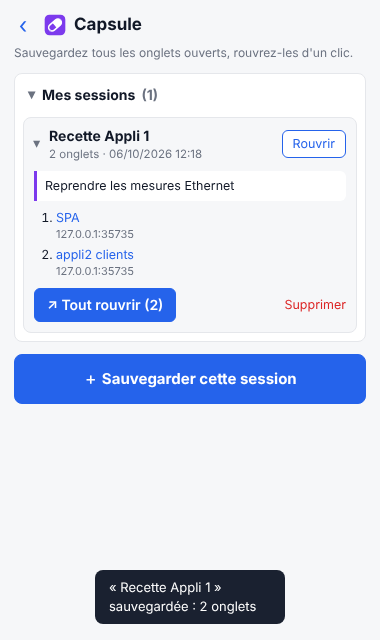
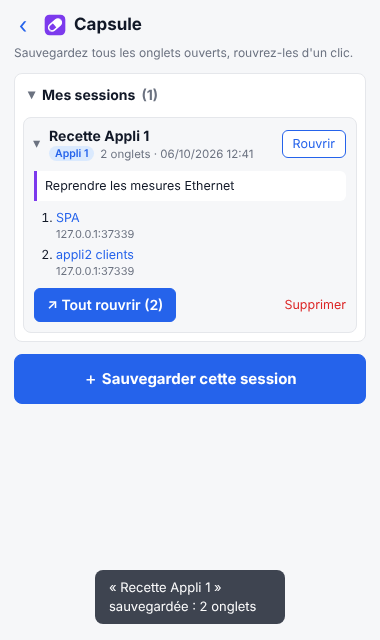
Capsule : client associé (facultatif) sur chaque session
- Formulaire « Sauvegarder cette session » : champ « Client associé »
  facultatif, auto-complété avec les clients d'Insigth (référentiel et
  mesures) ; un nom tapé est rattaché à l'orthographe connue
  (« appli 1 » -> « Appli 1 »).
- Le client s'affiche en étiquette dans la liste des sessions.
- Tests unitaires (32) et e2e, README, capture, version 3.4.0.

Claude-Session: https://claude.ai/code/session_01Axa7Xvzh5ew4aqVjG52R2h

diff --git a/extension/panel/capsule.js b/extension/panel/capsule.js
@@ -8,11 +8,15 @@ import {
   currentTabs,
   describeTabs,
   host,
+  clientNames,
 } from '../lib/capsule.js';
+import { getConfig, getMeasures } from '../lib/storage.js';
+import { canonical } from '../lib/names.js';
 
 const $ = (id) => document.getElementById(id);
 const fmtWhen = (ts) => new Date(ts).toLocaleString('fr-FR', { dateStyle: 'short', timeStyle: 'short' });
 let capsules = [];
+let clients = []; // clients d'Insigth, proposés pour « Client associé »
 
 function el(tag, { dataset, ...props } = {}, ...children) {
   const node = Object.assign(document.createElement(tag), props);
@@ -56,7 +60,14 @@ function item(c) {
           'span',
           { className: 'cap-head' },
           el('strong', { className: 'cap-title', textContent: c.title }),
-          el('span', { className: 'cap-meta', textContent: `${describeTabs(c.tabs)} · ${fmtWhen(c.ts)}` }),
+          el(
+            'span',
+            { className: 'cap-meta' },
+            c.client
+              ? el('span', { className: 'tag cap-client', textContent: c.client, title: 'Client associé' })
+              : null,
+            `${describeTabs(c.tabs)} · ${fmtWhen(c.ts)}`,
+          ),
         ),
         el('button', {
           type: 'button',
@@ -120,6 +131,9 @@ $('capsules').addEventListener('click', async (e) => {
 let pending = []; // onglets qui seront enregistrés
 
 async function openForm() {
+  const [{ apps }, measures] = await Promise.all([getConfig(), getMeasures()]);
+  clients = clientNames(apps, measures);
+  $('clientList').replaceChildren(...clients.map((name) => el('option', { value: name })));
   pending = await currentTabs();
   $('saveWhat').textContent = pending.length
     ? `Onglets ouverts à enregistrer : ${describeTabs(pending)}.`
@@ -134,6 +148,7 @@ function closeForm() {
   $('saveForm').hidden = true;
   $('saveOpen').hidden = false;
   $('saveTitle').value = '';
+  $('saveClient').value = '';
   $('saveComment').value = '';
 }
 
@@ -152,7 +167,12 @@ $('saveForm').addEventListener('submit', async (e) => {
     $('saveError').textContent = 'Aucune page web ouverte à enregistrer.';
     return;
   }
-  const c = await saveCapsule(title, $('saveComment').value, pending);
+  const c = await saveCapsule({
+    title,
+    client: canonical($('saveClient').value, clients), // « client a » -> « Client A »
+    comment: $('saveComment').value,
+    tabs: pending,
+  });
   closeForm();
   toast(`« ${c.title} » sauvegardée : ${describeTabs(c.tabs)}`);
 });

diff --git a/extension/lib/capsule.js b/extension/lib/capsule.js
@@ -2,11 +2,12 @@
 //
 // chrome.storage.local
 //   capsules  sessions sauvegardées, la plus récente en premier :
-//             [{ id, ts, title, comment, tabs: [{ url, title, win, pinned }] }]
+//             [{ id, ts, title, client, comment, tabs: [{ url, title, win, pinned }] }]
+//             (client : facultatif, nom d'un client d'Insigth ou saisi librement)
 //             (win : numéro de la fenêtre d'origine, pour rouvrir fenêtre par fenêtre)
 
 import { newId } from './storage.js';
-import { normName } from './names.js';
+import { normName, nameKey, compareNames } from './names.js';
 
 /** Adresses que Chrome sait rouvrir (les pages internes chrome://, extensions… sont ignorées). */
 export const isSavable = (url) => /^(https?|file):/i.test(String(url || ''));
@@ -47,6 +48,16 @@ export function describeTabs(tabs) {
   return `${n} onglet${n > 1 ? 's' : ''}${w > 1 ? ` · ${w} fenêtres` : ''}`;
 }
 
+/** Clients proposés : ceux d'Insigth (référentiel et mesures), sans doublon, triés. */
+export function clientNames(apps, measures) {
+  const names = new Map();
+  for (const name of [...apps.map((a) => a.name), ...measures.map((m) => m.app)]) {
+    const n = normName(name);
+    if (n && !names.has(nameKey(n))) names.set(nameKey(n), n);
+  }
+  return [...names.values()].sort(compareNames);
+}
+
 /** Nom de domaine affiché sous le titre d'un onglet. */
 export function host(url) {
   try {
@@ -67,12 +78,13 @@ export async function getCapsules() {
   return (await chrome.storage.local.get('capsules')).capsules || [];
 }
 
-/** Enregistre des onglets (par défaut ceux ouverts) sous un titre, commentaire facultatif. */
-export async function saveCapsule(title, comment, tabs) {
+/** Enregistre des onglets (par défaut ceux ouverts) sous un titre ; client et commentaire facultatifs. */
+export async function saveCapsule({ title, client, comment, tabs }) {
   const capsule = {
     id: newId(),
     ts: Date.now(),
     title: normName(title),
+    client: normName(client),
     comment: String(comment || '').trim(),
     tabs: tabs || (await currentTabs()),
   };

diff --git a/tests/unit/capsule.test.js b/tests/unit/capsule.test.js
@@ -1,6 +1,6 @@
 import { test } from 'node:test';
 import assert from 'node:assert/strict';
-import { isSavable, snapshot, byWindow, describeTabs, host } from '../../extension/lib/capsule.js';
+import { isSavable, snapshot, byWindow, describeTabs, host, clientNames } from '../../extension/lib/capsule.js';
 
 const tab = (url, title = '', pinned = false) => ({ url, title, pinned });
 
@@ -37,6 +37,12 @@ test('regroupement par fenêtre et résumé', () => {
   );
   assert.equal(describeTabs(tabs), '3 onglets · 2 fenêtres');
   assert.equal(describeTabs(tabs.slice(0, 1)), '1 onglet');
+});
+
+test('clients proposés : référentiel et mesures, sans doublon, triés', () => {
+  const apps = [{ name: 'Client 10' }, { name: 'Client 2' }];
+  const measures = [{ app: 'client  2' }, { app: 'Client A' }, { app: '' }];
+  assert.deepEqual(clientNames(apps, measures), ['Client 2', 'Client 10', 'Client A']);
 });
 
 test('adresses : rouvrables et domaine affiché', () => {

diff --git a/extension/panel/capsule.html b/extension/panel/capsule.html
@@ -37,6 +37,11 @@
         <input id="saveTitle" type="text" placeholder="ex. Recette client X" maxlength="120" />
       </label>
       <label class="field">
+        <span>Client associé <small>(facultatif)</small></span>
+        <input id="saveClient" type="text" list="clientList" placeholder="ex. Client A" spellcheck="false" />
+      </label>
+      <datalist id="clientList"></datalist>
+      <label class="field">
         <span>Commentaire <small>(facultatif)</small></span>
         <textarea id="saveComment" rows="3" placeholder="Pourquoi cette session, ce qu'il reste à faire…"></textarea>
       </label>

diff --git a/extension/panel/tools.css b/extension/panel/tools.css
@@ -159,6 +159,10 @@
   color: var(--muted);
 }
 
+.cap-meta .cap-client {
+  margin: 0 6px 0 0;
+}
+
 .capsule .reopen {
   padding: 4px 10px;
   font-size: 12.5px;

diff --git a/README.md b/README.md
@@ -29,9 +29,10 @@ panneau s'ouvre directement sur Insigth pour afficher le chrono.
 ### Capsule : sauvegarde des onglets
 
 1. **Mes sessions** (replié au départ) liste les sessions sauvegardées, la plus récente en premier :
-   titre, nombre d'onglets, date. Dépliez une session pour voir son commentaire et ses liens.
-2. **＋ Sauvegarder cette session** demande un **titre** et un **commentaire** facultatif, puis
-   enregistre tous les onglets ouverts, dans toutes les fenêtres.
+   titre, client, nombre d'onglets, date. Dépliez une session pour voir son commentaire et ses liens.
+2. **＋ Sauvegarder cette session** demande un **titre**, le **client associé** (facultatif,
+   auto-complété avec les clients d'Insigth) et un **commentaire** facultatif, puis enregistre tous
+   les onglets ouverts, dans toutes les fenêtres. Le client s'affiche en étiquette sur la session.
 3. **Rouvrir** (ou **↗ Tout rouvrir**) rouvre tous les onglets de la session, dans une nouvelle
    fenêtre par fenêtre d'origine (onglets épinglés compris). Un clic sur un lien n'ouvre que celui-là.
    **Supprimer** retire la session.
